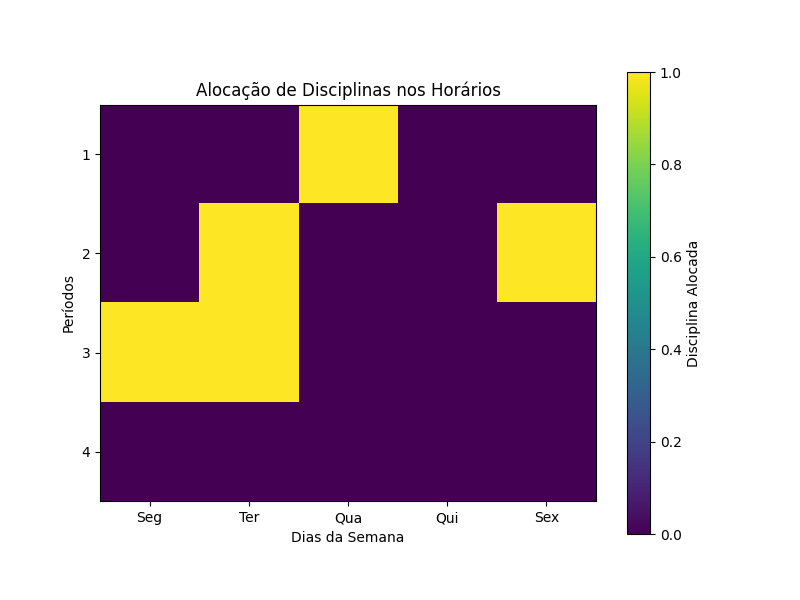
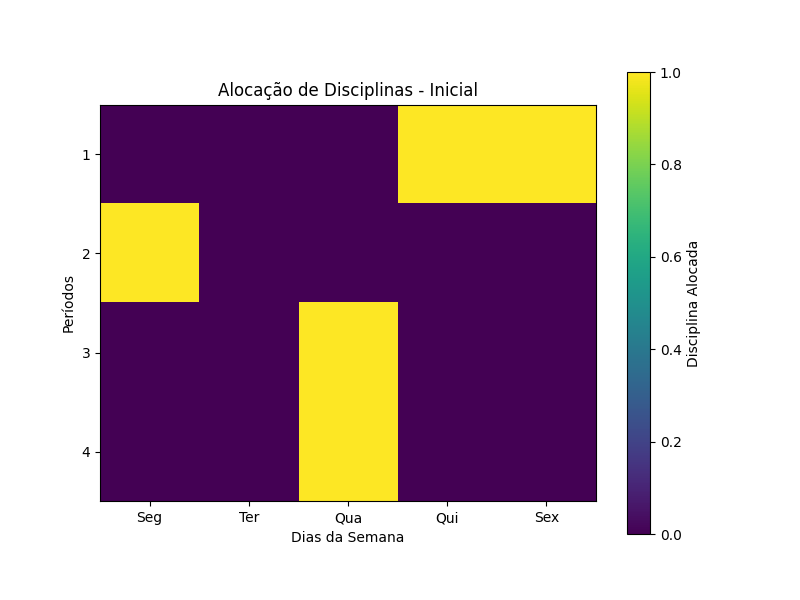
update

Changed region(s): [[0.125, 0.12, 0.75, 0.84]]

diff --git a/ag.py b/ag.py
@@ -1,0 +1,202 @@
+import matplotlib.pyplot as plt
+import numpy as np
+from deap import creator, base, tools, algorithms
+import random
+
+NUM_PERIODOS = 4
+TAMANHO_PERIODO = 5
+NUM_DISCIPLINAS = 8
+
+disciplinas = {
+    'Calculo 1': {'horario': 'segunda 08:00-10:00', 'pre_requisitos': []},
+    'Algoritmos': {'horario': 'segunda 10:00-12:00', 'pre_requisitos': ['Matemática']},
+    'Fundamentos de Sistemas Inteligentes': {'horario': 'terça 08:00-10:00', 'pre_requisitos': ['Algoritmos']},
+    'Redes de Computadores': {'horario': 'quarta 14:00-16:00', 'pre_requisitos': ['Algoritmos']},
+    'Banco de Dados': {'horario': 'quinta 08:00-10:00', 'pre_requisitos': ['Matemática']},
+    'Estruturas de Dados': {'horario': 'sexta 10:00-12:00', 'pre_requisitos': ['Algoritmos']},
+    'Inteligência Artificial': {'horario': 'quarta 08:00-10:00', 'pre_requisitos': ['Fundamentos de Sistemas Inteligentes']},
+    'Sistemas Operacionais': {'horario': 'terça 14:00-16:00', 'pre_requisitos': ['Algoritmos']},
+}
+
+def gerar_horario():
+    return [random.randint(1, NUM_DISCIPLINAS) for _ in range(TAMANHO_PERIODO * NUM_PERIODOS)]
+
+def avaliar_horario(individuo):
+    conflitos = 0
+    # Dicionário para armazenar horários ocupados por disciplinas
+    horarios_ocupados = {dia: set() for dia in ['segunda', 'terça', 'quarta', 'quinta', 'sexta']}
+
+    # Verifica cada período no cromossomo
+    for disciplina in individuo:
+        if disciplina in disciplinas:  # Verifica se a disciplina existe no dicionário
+            # Obtém o horário da disciplina
+            horario = disciplinas[disciplina]['horario']
+            dia, intervalo = horario.split()
+            horario_inicio, horario_fim = map(int, intervalo.split('-'))
+
+            # Verifica se há conflito com horários ocupados
+            conflito_encontrado = False
+            for horario_ocupado in horarios_ocupados[dia]:
+                if horario_inicio < horario_ocupado[1] and horario_fim > horario_ocupado[0]:
+                    conflitos += 1  # Conflito de horário detectado
+                    conflito_encontrado = True
+                    break
+
+            if not conflito_encontrado:
+                # Atualiza os horários ocupados para o dia atual
+                horarios_ocupados[dia].add((horario_inicio, horario_fim))
+        else:
+            conflitos += 1  # Se a disciplina não existir, cont+1 conflito
+
+    return conflitos,
+
+def inicializar_populacao(pop_size):
+    # Lógica para inicialização personalizada da população
+    populacao = []
+    for _ in range(pop_size):
+        # Criar indivíduos com uma distribuição preferencial de disciplinas
+        # Aqui você pode aplicar sua heurística de escolha ou preferência
+        # Por exemplo, distribuição uniforme de disciplinas ou outras regras específicas
+
+        # Criação de um indivíduo fictício como exemplo
+        individuo = random.sample(disciplinas.keys(), len(disciplinas.keys()))
+        populacao.append(individuo)
+    
+    return populacao
+
+def plot_horarios(cromossomo, label, otimizacao):
+    periods = len(cromossomo)
+    days = len(cromossomo[0])
+
+    # Criar uma matriz com zeros representando os horários vazios
+    data = np.zeros((periods, days))
+
+    # Preencher a matriz com os índices das disciplinas alocadas
+    for i in range(periods):
+        for j in range(days):
+            if cromossomo[i][j] != '':
+                data[i][j] = 1  
+
+    fig, ax = plt.subplots(figsize=(8, 6))
+    im = ax.imshow(data, cmap='viridis', interpolation='nearest')
+
+    # Definir rótulos e títulos
+    ax.set_xticks(np.arange(days))
+    ax.set_yticks(np.arange(periods))
+    ax.set_xticklabels(['Seg', 'Ter', 'Qua', 'Qui', 'Sex'])  # Dias da semana
+    ax.set_yticklabels(np.arange(1, periods + 1))  # Períodos
+
+    # Barra de cores
+    cbar = ax.figure.colorbar(im, ax=ax)
+    cbar.set_label('Disciplina Alocada')
+
+    # Salvar a imagem antes de mostrar
+    if otimizacao == 'antes':
+        plt.savefig('saida/antes_otimizacao.png')
+    elif otimizacao == 'depois':
+        plt.savefig('saida/depois_otimizacao.png')
+
+    # Mostrar o gráfico
+    plt.title(f'Alocação de Disciplinas - {label}')
+    plt.xlabel('Dias da Semana')
+    plt.ylabel('Períodos')
+    plt.show()
+    plt.close();
+    
+    
+def selecao(populacao):
+    return tools.selRouletteWheel(populacao, len(populacao))
+
+def crossover(individuo1, individuo2):
+    return tools.cxUniform(individuo1, individuo2)
+
+def mutacao(individuo, indpb=0.05):
+    return tools.mutShuffle(individuo, indpb)
+
+def diversity(population):
+    unique_individuals = set(map(tuple, population))
+    return len(unique_individuals) / len(population)
+
+def algoritmo_genetico(pop_size=100, n_gen=500):
+    stats = tools.Statistics(lambda ind: ind.fitness.values)
+    stats.register("avg", np.mean)
+    stats.register("min", np.min)
+    stats.register("max", np.max)
+    
+    # Registrar a função de diversidade corretamente
+    stats.register("diversity", diversity)
+
+    # Inicialização personalizada da população usando criar_cromossomo
+    pop = [toolbox.individual() for _ in range(pop_size)]
+
+    # Avaliação inicial da população
+    fitnesses = list(map(toolbox.evaluate, pop))
+    for ind, fit in zip(pop, fitnesses):
+        ind.fitness.values = fit
+
+    # Registro das funções e execução do algoritmo genético
+    pop, logbook = algorithms.eaSimple(pop, toolbox, cxpb=0.7, mutpb=0.2, ngen=n_gen, stats=stats)
+
+    return pop, logbook
+
+
+def criar_cromossomo(disciplinas, num_periodos, tamanho_periodo):
+    cromossomo = [[''] * tamanho_periodo for _ in range(num_periodos)]
+    disciplinas_disponiveis = list(disciplinas.keys())
+    disciplinas_nao_alocadas = []
+
+    for disciplina in disciplinas_disponiveis:
+        pre_requisitos_atendidos = all(pre_req in disciplinas_nao_alocadas for pre_req in disciplinas[disciplina]['pre_requisitos'])
+        if pre_requisitos_atendidos:
+            alocado = False
+            while not alocado:
+                periodo = random.randint(0, num_periodos - 1)
+                horario = random.randint(0, tamanho_periodo - 1)
+                if cromossomo[periodo][horario] == '':
+                    cromossomo[periodo][horario] = disciplina
+                    alocado = True
+        else:
+            disciplinas_nao_alocadas.append(disciplina)
+
+    return cromossomo
+
+def gerar_horario_inicial():
+    return criar_cromossomo(disciplinas, NUM_PERIODOS, TAMANHO_PERIODO)
+
+
+
+creator.create("FitnessMin", base.Fitness, weights=(-1.0,))
+creator.create("Individual", list, fitness=creator.FitnessMin)
+
+toolbox = base.Toolbox()
+toolbox.register("individual", tools.initIterate, creator.Individual, gerar_horario)
+toolbox.register("population", tools.initRepeat, list, toolbox.individual)
+
+toolbox.register("evaluate", avaliar_horario)
+toolbox.register("mate", tools.cxBlend, alpha=0.5)
+toolbox.register("mutate", tools.mutUniformInt, low=1, up=NUM_DISCIPLINAS, indpb=0.2)
+toolbox.register("select", tools.selTournament, tournsize=3)
+
+if __name__ == "__main__":
+    horarios_iniciais = gerar_horario_inicial()
+    plot_horarios(horarios_iniciais, 'Inicial', None)
+    
+
+    pop_final, logbook = algoritmo_genetico(n_gen=500)  
+
+    # Exibindo estatísticas adicionais
+    gen = logbook.select("gen")
+    fit_mins = logbook.select("min")
+    fit_avgs = logbook.select("avg")
+    fit_maxs = logbook.select("max")
+    diversity = logbook.select("diversity")
+    
+    # horários otimizados depois do algoritmo genético
+    horarios_otimizados_depois = criar_cromossomo(disciplinas, NUM_PERIODOS, TAMANHO_PERIODO)
+    plot_horarios(horarios_otimizados_depois, 'Otimizado', 'depois')    
+    # Imprimindo os horários finais
+    num_periodos = 4
+    tamanho_periodo = 5
+    horarios_finais = criar_cromossomo(disciplinas, num_periodos, tamanho_periodo)
+    for periodo in horarios_finais:
+        print(periodo)
